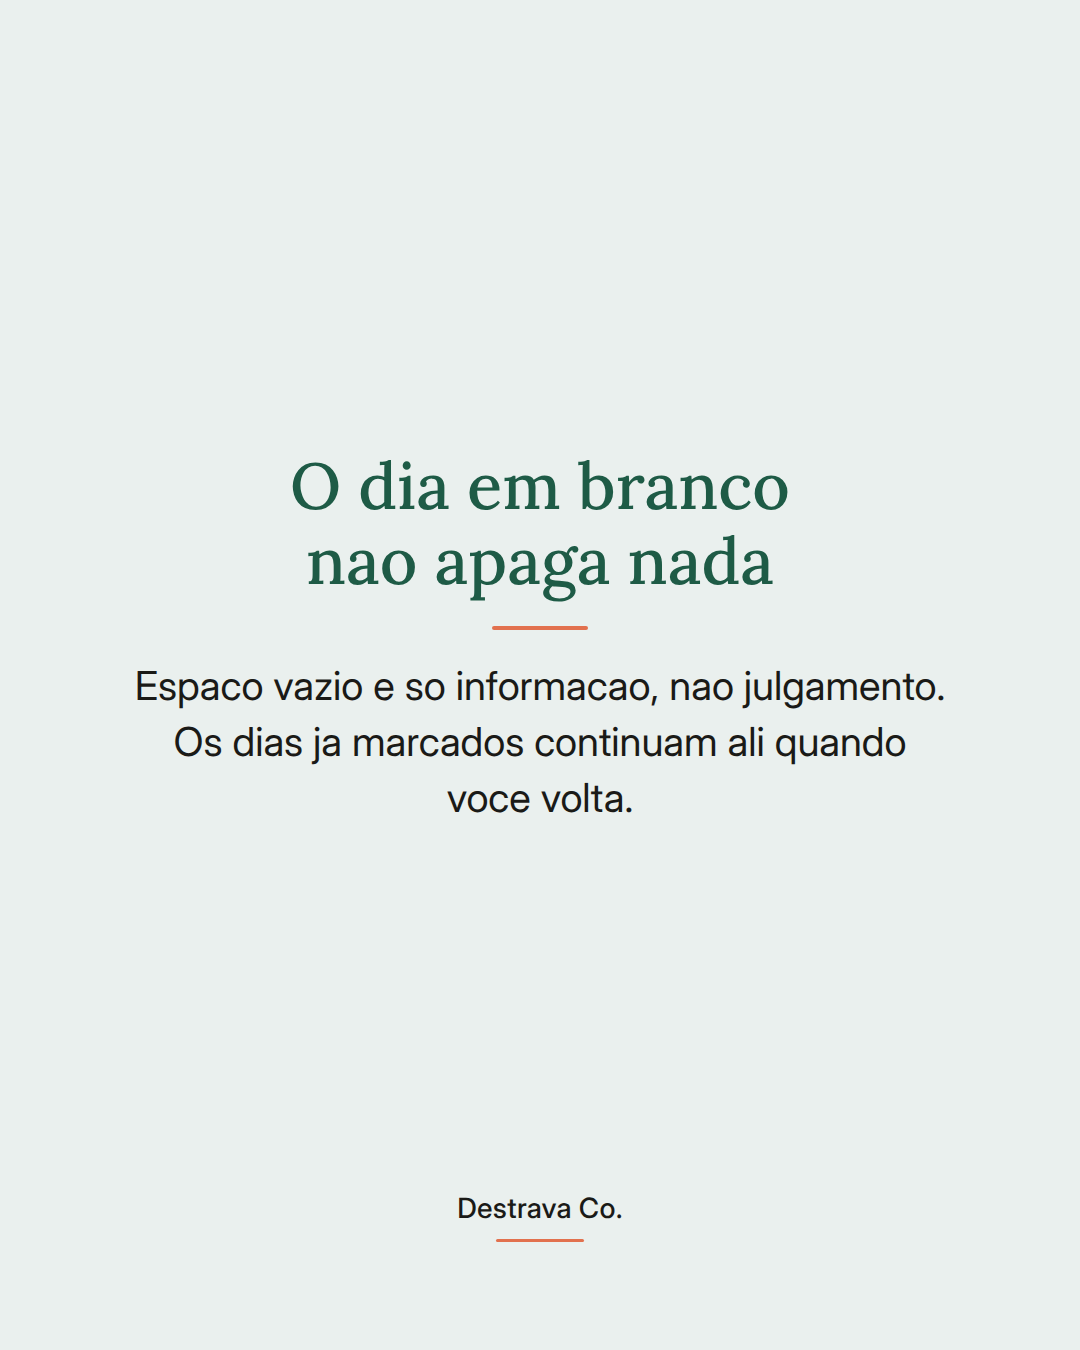
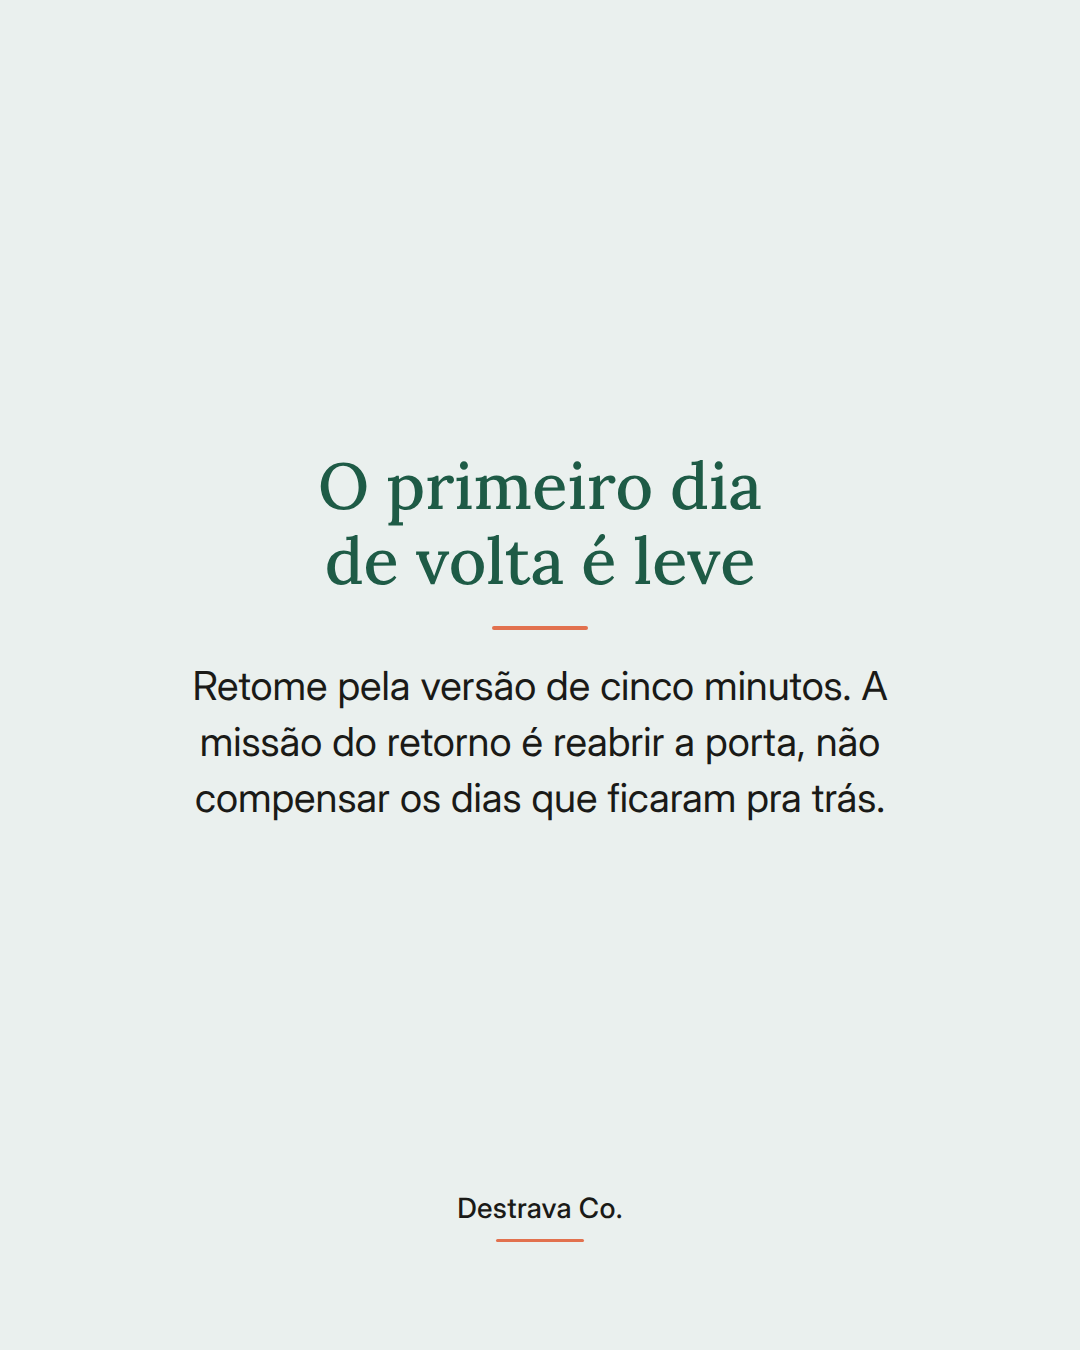
content: peças Instagram 2026_10_04

Changed region(s): [[0.1222, 0.4978, 0.8861, 0.6222], [0.275, 0.3422, 0.7333, 0.4356]]

diff --git a/public/content/2026_10_04/index.html b/public/content/2026_10_04/index.html
@@ -19,24 +19,24 @@
 </head>
 <body>
 <h1>Corpo · capa B (wash3)</h1>
-<div class="meta">2026-10-04 · gerado em 2026-10-04T18:55:37 · sticker sugerido nos Stories: emoji slider</div>
+<div class="meta">2026-10-04 · gerado em 2026-10-04T19:00:12 · sticker sugerido nos Stories: emoji slider</div>
 <h2>Carrossel</h2>
-<div class="strip"><img src="2026_10_04_-_Carrossel_Corpo_01.png" alt="Lamina de capa com fundo wash3 da linha Corpo e titulo em campo sobre a memoria guardar so o dia da falha." title="2026_10_04_-_Carrossel_Corpo_01.png"><img src="2026_10_04_-_Carrossel_Corpo_02.png" alt="Lamina de miolo com fundo wash1 bem claro e titulo no campo profundo explicando que a memoria guarda o dia ruim." title="2026_10_04_-_Carrossel_Corpo_02.png"><img src="2026_10_04_-_Carrossel_Corpo_03.png" alt="Lamina de miolo com fundo wash1 bem claro e lista de tres passos simples para registrar o habito." title="2026_10_04_-_Carrossel_Corpo_03.png"><img src="2026_10_04_-_Carrossel_Corpo_04.png" alt="Lamina de miolo com fundo wash1 bem claro e titulo no campo profundo sobre o dia em branco nao apagar o que foi feito." title="2026_10_04_-_Carrossel_Corpo_04.png"><img src="2026_10_04_-_Carrossel_Corpo_05.png" alt="Lamina de CTA com fundo campo profundo, texto creme e botao no acento convidando para o Destrava 21." title="2026_10_04_-_Carrossel_Corpo_05.png"></div>
+<div class="strip"><img src="2026_10_04_-_Carrossel_Corpo_01.png" alt="Lâmina de capa com fundo wash3 da linha Corpo e título em campo dizendo que a pausa marcada não vira abandono." title="2026_10_04_-_Carrossel_Corpo_01.png"><img src="2026_10_04_-_Carrossel_Corpo_02.png" alt="Lâmina de fundo wash1 bem claro com título no campo profundo explicando que pausa sem fim marcado se estica sozinha." title="2026_10_04_-_Carrossel_Corpo_02.png"><img src="2026_10_04_-_Carrossel_Corpo_03.png" alt="Lâmina de fundo wash1 bem claro com título no campo profundo e três passos para marcar uma pausa com data de volta." title="2026_10_04_-_Carrossel_Corpo_03.png"><img src="2026_10_04_-_Carrossel_Corpo_04.png" alt="Lâmina de fundo wash1 bem claro com título no campo profundo dizendo que o primeiro dia de volta deve ser leve." title="2026_10_04_-_Carrossel_Corpo_04.png"><img src="2026_10_04_-_Carrossel_Corpo_05.png" alt="Lâmina de CTA com fundo campo profundo, texto creme convidando a conhecer o Destrava 21 e botão no acento escrito LINK NA BIO." title="2026_10_04_-_Carrossel_Corpo_05.png"></div>
 <h2>Stories</h2>
-<div class="strip"><img class="story" src="2026_10_04_-_Stories_Corpo_01.png" alt="Lamina de Stories com fundo wash3 da linha Corpo e titulo em campo convidando a deslizar para o feed." title="2026_10_04_-_Stories_Corpo_01.png"><img class="story" src="2026_10_04_-_Stories_Corpo_02.png" alt="Stories em fundo verde profundo apresentando o programa Destrava 21 Mulheres com o endereço da página em destaque no chip coral." title="2026_10_04_-_Stories_Corpo_02.png"></div>
+<div class="strip"><img class="story" src="2026_10_04_-_Stories_Corpo_01.png" alt="Story com fundo wash3 da linha Corpo e título em campo sobre pausa com data de volta, convidando a deslizar pro feed." title="2026_10_04_-_Stories_Corpo_01.png"><img class="story" src="2026_10_04_-_Stories_Corpo_02.png" alt="Stories em fundo verde profundo apresentando o programa Destrava 21 Mulheres com o endereço da página em destaque no chip coral." title="2026_10_04_-_Stories_Corpo_02.png"></div>
 <div class="meta">1º · stories post do dia · <a href="2026_10_04_-_Stories_Corpo_01.png" download="2026_10_04_-_Stories_Corpo_01.png">⬇ baixar</a> · sticker de link → post do dia (permalink em publicado.json depois de publicar) · sticker extra sugerido: emoji slider</div><div class="meta">2º · stories oferta · <a href="2026_10_04_-_Stories_Corpo_02.png" download="2026_10_04_-_Stories_Corpo_02.png">⬇ baixar</a> · sticker de link → <a href="https://destravaco.com.br/d21-mulheres-inicial/">https://destravaco.com.br/d21-mulheres-inicial/</a></div>
 <div class="meta">Stories não vão pela API: baixe e poste no app colando o sticker de link.</div>
 <h2>Legenda</h2>
-<pre>Sua memoria guarda o dia em que voce falhou e apaga os dias em que deu certo.
+<pre>Pausa marcada não é desistência: é o que impede a semana ruim de virar um mês parado.
 
-Constancia na rotina corrida fica mais facil quando existe um registro visivel do habito. Nao e aplicativo, nao e planilha: um papel na geladeira e um X no dia em que aconteceu.
+A maioria das retomadas trava porque a pausa aconteceu sem combinado. A gente some do hábito num dia corrido e, sem data de volta, o dia vira semana.
 
-O ponto e o que voce marca. Marque o que fez, nunca o que faltou. Assim o papel vira memoria de apoio, e nao lista de cobranca.
+Tenta assim na próxima vez que a rotina apertar: defina até quando vai pausar, escolha o dia e a hora do retorno e deixe a versão mínima do hábito pronta pra esse dia. Cinco minutos já contam.
 
-E quando aparece um espaco em branco, ele e so informacao. Os dias ja marcados continuam ali esperando voce voltar na proxima oportunidade.
+E lembra: o primeiro dia de volta serve só pra reabrir a porta, não pra compensar nada.
 
-Salva pra lembrar de comecar o seu registro hoje e manda pra uma amiga que anda achando que nao conseguiu nada essa semana. Se quiser seguir com um caminho organizado, o Destrava 21 te espera na bio.
+Salva pra lembrar na próxima semana caótica e manda pra uma amiga que anda se cobrando demais. Se quiser um caminho simples pra manter o hábito vivo, dá uma olhada no Destrava 21 pelo meu perfil.
 
-<span class="tags">#constancia #habitossaudaveis #rotinacorrida #autocuidado #mulheresreais</span></pre>
+<span class="tags">#constancia #rotinacorrida #autocuidado #habitossaudaveis #mulheresreais</span></pre>
 </body>
 </html>
